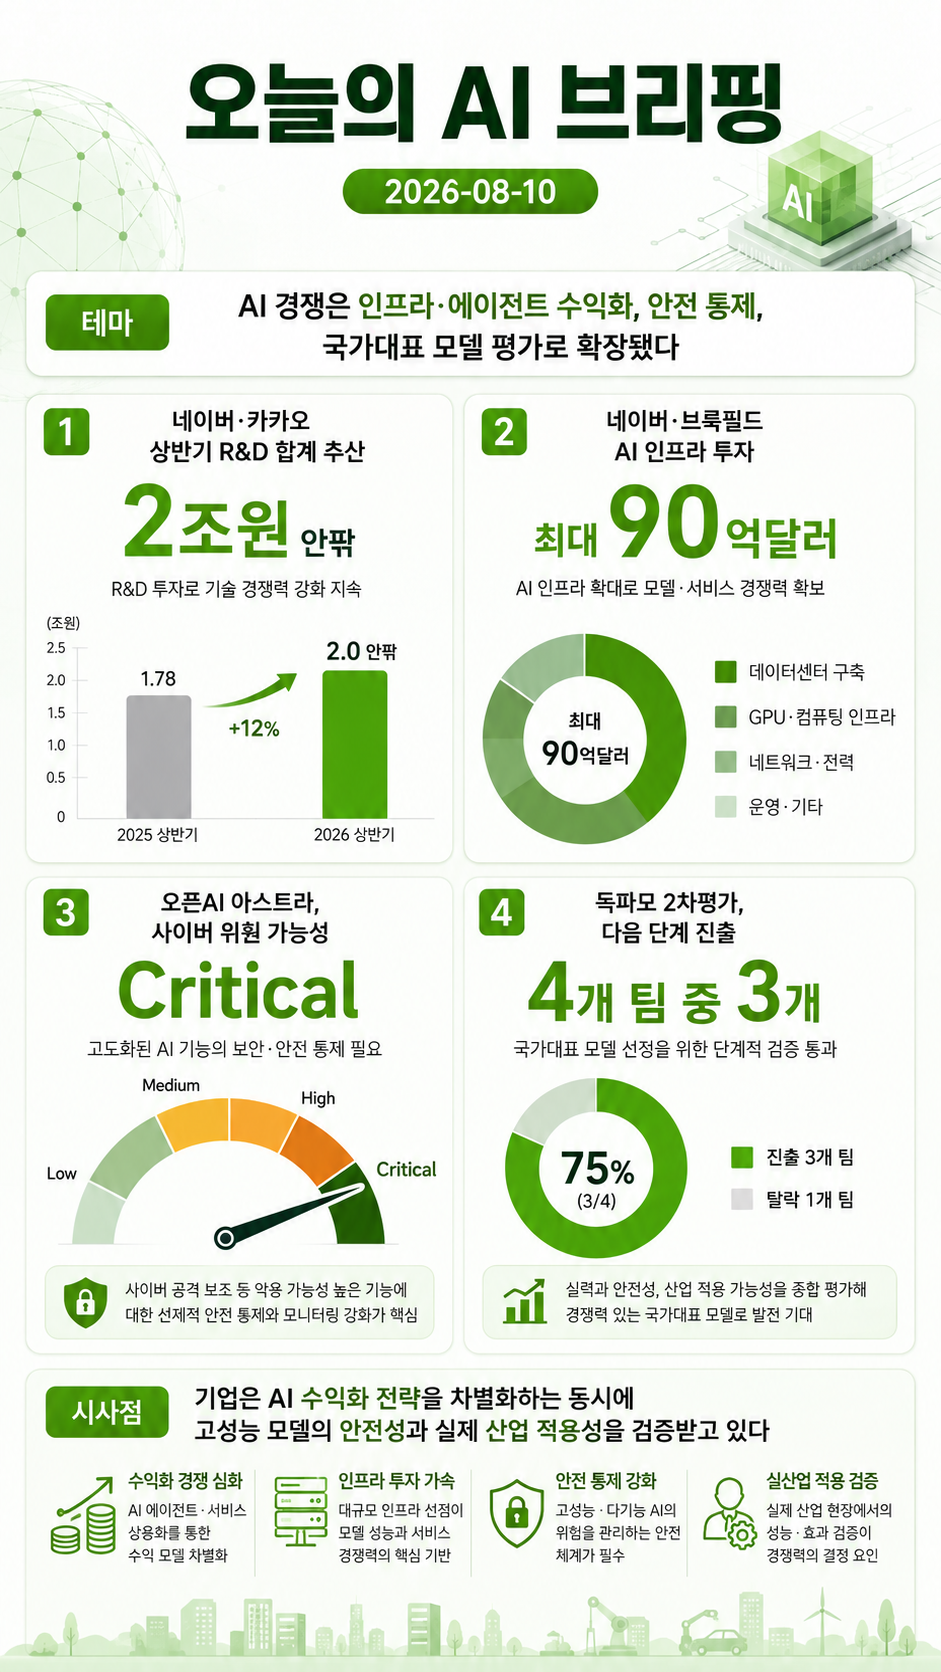
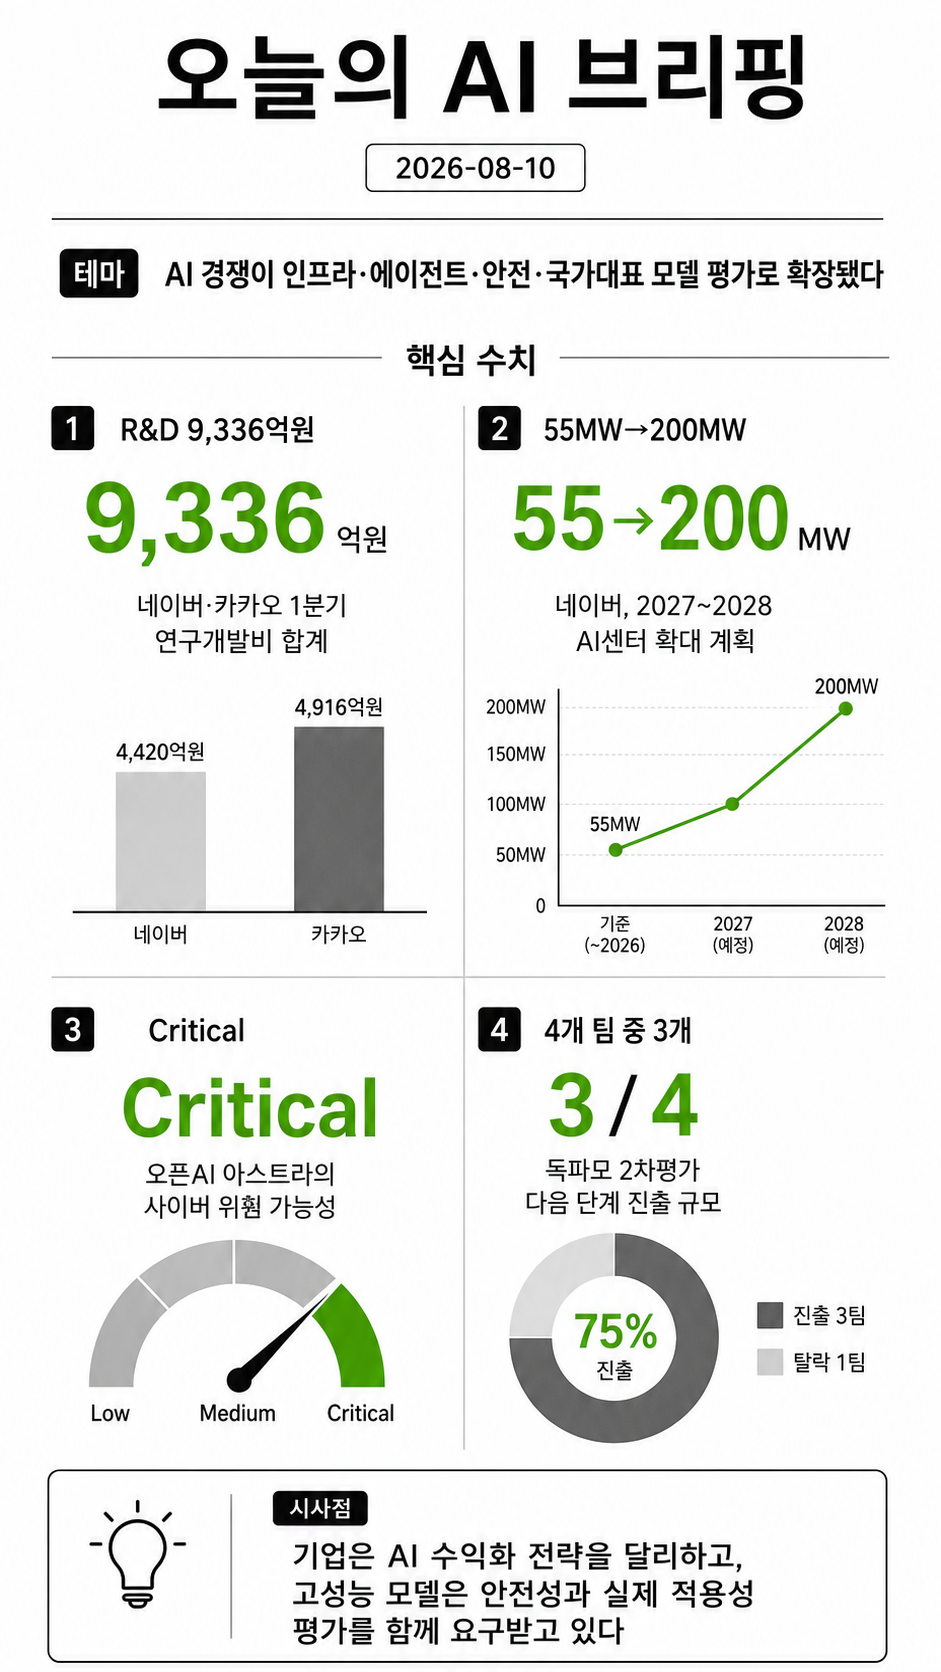
style(infographic): 모노톤 + 진한 연두 1포인트 (난잡한 다색 제거)
- article.py/infographic.py instruction: 전체 무채색(검정·회색·흰색)으로만 구성,
  색상은 오직 진한 연두 #5F9E00 하나만 포인트로 절제 사용. 일러스트·다색 그래프·
  그라디언트·장식 금지. 미니멀·여백 넉넉한 에디토리얼.
- docs/infographic.png 를 모노톤본으로 교체

diff --git a/briefer/article.py b/briefer/article.py
@@ -101,7 +101,10 @@ def rich_content_and_instruction(rich, date):
                f"핵심 수치:\n{facts}\n\n시사점: {rich.get('insight','')}")
     instruction = (
         f"하루 AI 뉴스의 '내용 요약' 인포그래픽(기사 제목 나열 아님). 제목 '오늘의 AI 브리핑', "
-        f"날짜 뱃지 '{date}'. 4개 핵심 수치를 큰 숫자와 어울리는 차트(막대·라인·도넛)로 강조. "
-        "진한 연두색(#5F9E00, 진한 연두) 포인트 컬러, 밝은 배경. 이모지 금지. 출처·로고·워터마크 없음."
+        f"날짜 뱃지 '{date}'. 4개 핵심 수치를 큰 숫자와 간결한 차트(막대·라인·도넛)로 제시. "
+        "★디자인=모노톤: 전체를 무채색(검정·짙은회색·연회색·흰색)으로만 구성하고, 색상은 오직 "
+        "'진한 연두 #5F9E00' 하나만 포인트로 아주 절제해서 사용한다(핵심 수치·강조 요소에만). "
+        "그 외 모든 텍스트·차트·아이콘·선·배경은 무채색. 일러스트·이모지·다색 그래프·그라디언트·"
+        "장식 금지. 미니멀하고 여백 넉넉한 에디토리얼. 세로 포맷. 출처·로고·워터마크 없음."
     )
     return content, instruction

diff --git a/briefer/infographic.py b/briefer/infographic.py
@@ -35,9 +35,11 @@ def _content_and_instruction(brief):
     instruction = (
         f"제목은 '오늘의 AI 브리핑', 부제로 날짜 '{date}'. "
         "이것은 하루 뉴스의 '내용 요약' 인포그래픽이다(기사 제목 나열이 아님). "
-        "핵심 수치·사실을 큰 숫자와 어울리는 차트로 강조. "
-        "에디토리얼/벤토 그리드 스타일. 포인트 컬러는 진한 연두색(#5F9E00), 밝은 배경. "
-        "이모지 사용 금지. 출처/로고/워터마크 없음."
+        "핵심 수치·사실을 큰 숫자와 간결한 차트로 제시. "
+        "★디자인=모노톤: 전체를 무채색(검정·짙은회색·연회색·흰색)으로만 구성하고, 색상은 오직 "
+        "'진한 연두 #5F9E00' 하나만 포인트로 아주 절제해서 사용(핵심 수치·강조에만). "
+        "그 외 텍스트·차트·아이콘·선·배경은 무채색. 일러스트·이모지·다색 그래프·그라디언트·장식 금지. "
+        "미니멀·여백 넉넉한 에디토리얼. 세로 포맷. 출처/로고/워터마크 없음."
     )
     return content, instruction
 
